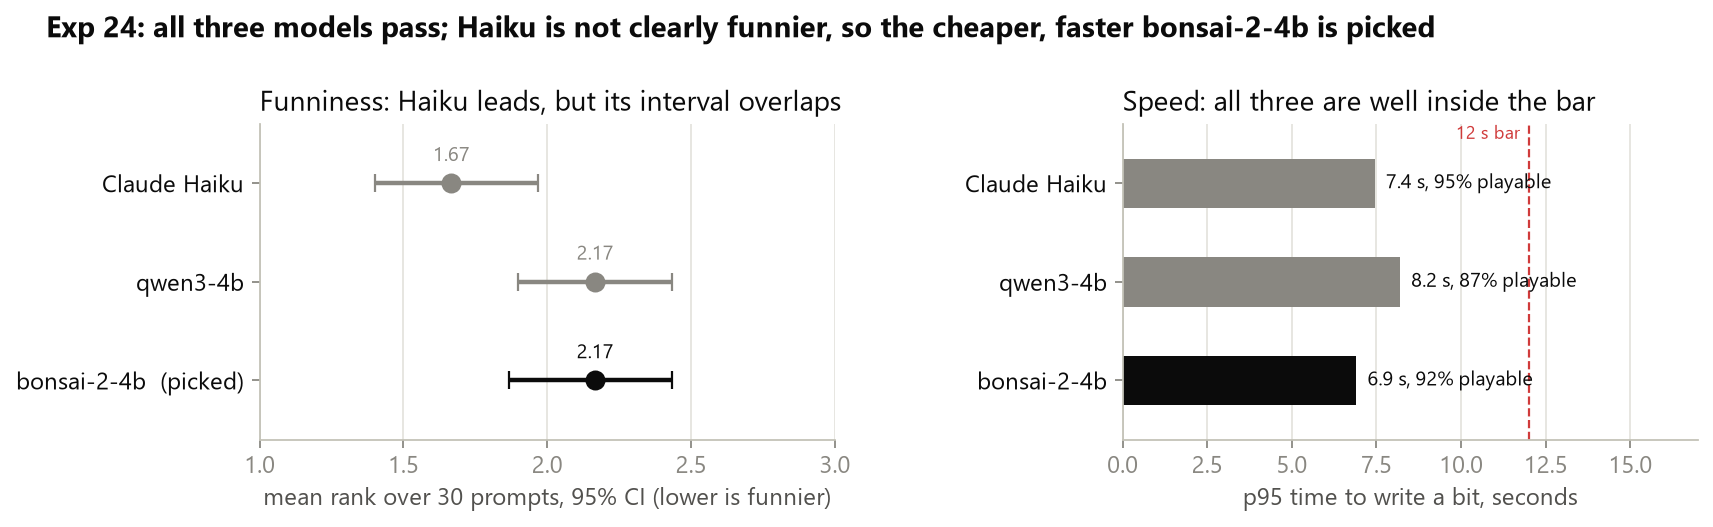
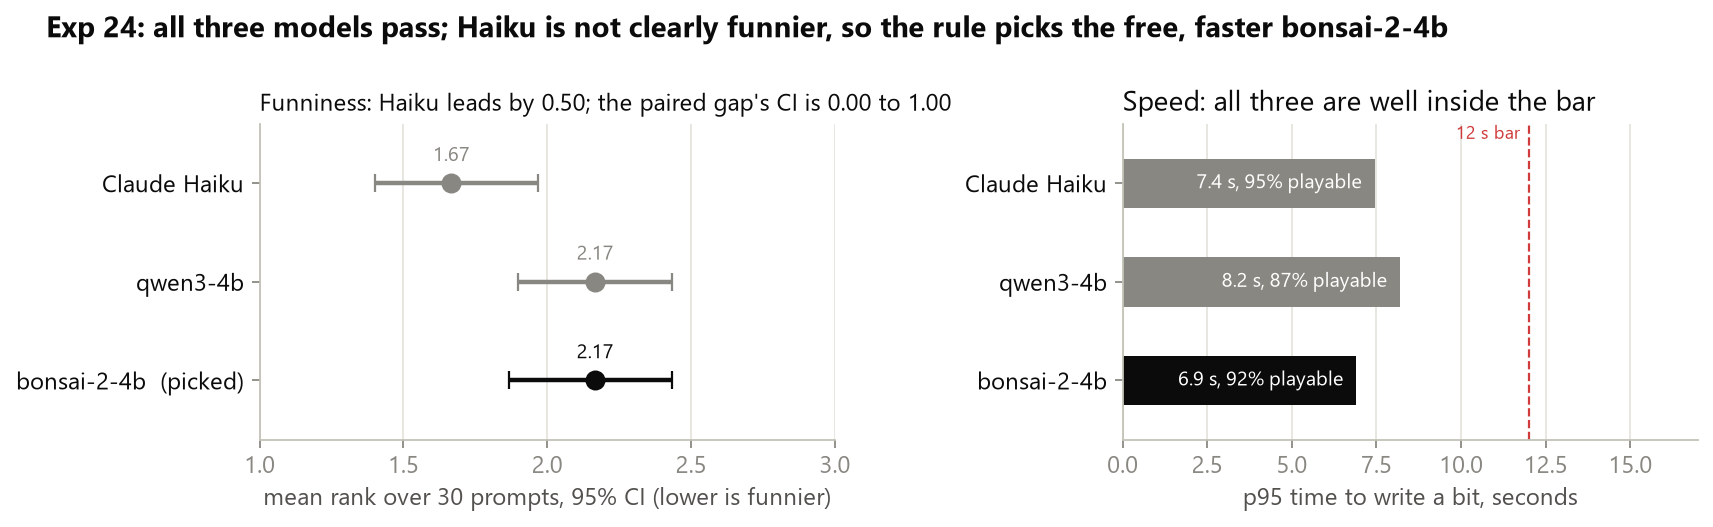
fix(exp24): :pencil2: say the local pick was alphabetical, link D-107 to its notebook, and show the paired gap on the chart

diff --git a/docs/agent/decisions-detail.md b/docs/agent/decisions-detail.md
@@ -948,7 +948,7 @@ Decided by the user, 2026-11-25, before the restarted vote.
 **Not hidden, said plainly.** Style beyond punctuation (word choice, line length, how a bit builds) can still hint at a model; that is part of what is being judged.
 
 
-## <a id="d-107"></a>D-107 · 2026-11-25 — Exp 24 result: bonsai-2:4b writes the live show's bits and is the SFT/DPO base; Haiku is the funnier reference to beat (user)
+## <a id="d-107"></a>D-107 · 2026-11-25 — Exp 24: bonsai-2:4b writes the live show's bits and is the SFT/DPO base; Haiku is the funnier reference to beat (user)
 Decided by the user, 2026-11-25, after seeing the score. The rule was fixed before any run (D-94, D-101); the score is `python -m sim.compare_generators score`, stored in `reports/metrics/model_comparison.json` (numbers only, no joke text).
 
 **Result.** 60 prompts per model, one attempt each; 30 prompts ranked by the user, 0 by the judge (the D-95 judge was not used). All three models are eligible (p95 within 12 s, failure upper bound within 15%, local models 100% on the GPU).
@@ -963,13 +963,13 @@ Decided by the user, 2026-11-25, after seeing the score. The rule was fixed befo
 
 **Funniness numbers.** Haiku vs bonsai, paired rank gap: 0.50 in Haiku's favour, 95% CI 0.00 to 1.00. The bar is a lower bound above 0, so it is not clear: it misses by touching 0. First places: Haiku 16 of 30, bonsai 8, qwen 6. Ranked last: qwen 3, bonsai 4, Haiku 2 (a 3-way ranking, so these are small counts). Head to head, restricted to bonsai and qwen: qwen is 0.13 ranks ahead (mean rank 1.43 vs 1.57), CI -0.20 to 0.47, so inconclusive.
 
-**Tie-break.** qwen and bonsai tie exactly on mean rank among the eligible three (2.17). `decide()` sorts by (mean rank, name), so bonsai reached the Haiku comparison by alphabetical order. Had qwen gone first instead, the cheaper-then-faster step would pick between qwen and Haiku, and qwen is $0 but slower than bonsai (p50 6.7 s vs 5.2 s); so the pick is a close call between two local models that tie on funniness, and bonsai wins on speed and playable rate (92% vs 87%). The user's choice below does not rest on the tie-break.
+**Tie-break: the rule's pick between the two local models was alphabetical.** qwen and bonsai tie exactly on mean rank among the eligible three (2.17). `decide()` sorts by (mean rank, name), so bonsai, not qwen, became the "second" model compared with Haiku. Had the tie broken the other way, the same cheaper-then-faster step would have picked qwen ($0 against Haiku's $0.017). So the vote does not separate the two local models: head to head qwen is 0.13 ranks ahead, CI -0.20 to 0.47. What does separate them favours bonsai: p50 5.2 s vs 6.7 s, p95 6.9 s vs 8.2 s, and playable 92% vs 87%. The user's choice below keeps bonsai on those grounds, not on the name order. **Proposed follow-up (not decided):** `decide()` could break an exact mean-rank tie on speed, not on name (a small fix in a later PR; it does not change this result).
 
 **Options offered.** (a) Override the rule and pick Haiku by judgment: the user ranked it first most often and finds it funnier. (b) Rank the other 30 prompts first. (c, chosen) Keep bonsai-2-4b as the rule says.
 
 **Choice (c), the user's reason:** it gives a good baseline to improve. Haiku has no weights, so it cannot be fine-tuned; the SFT/DPO base had to be local whatever the vote said. Haiku stays the funnier reference: its 0.5-rank lead over bonsai is the gap SFT and DPO must close.
 
-**Why not (b).** Ranking more prompts after seeing the result is a stopping rule that depends on the data. It inflates false "clear" results, and the bar was fixed at 30 prompts before any vote (D-101's power table). The 30 are the result.
+**Why not (b).** Ranking more prompts after seeing the result is a stopping rule that depends on the data. It inflates false "clear" results, and the bar was fixed at 30 prompts before any vote (D-94's power estimate). The 30 are the result.
 
 **Next.** The 120-pair ranking tool (D-102) is built on bonsai. Wiring bonsai into the show as `JOKE_WRITER` (Ollama provider, reply schema, reasoning off) is a separate PR. The live show still runs on Gemini until then.
 
